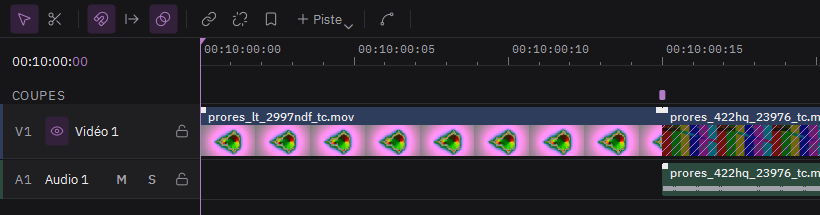
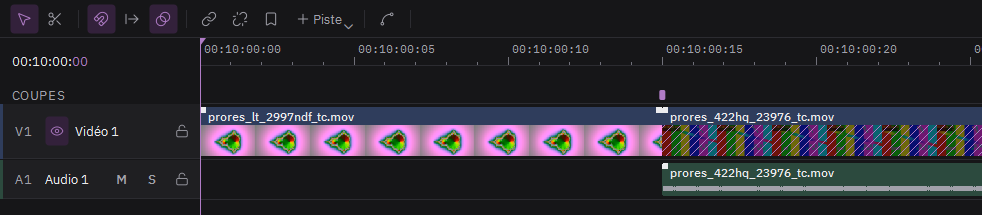
Étape 14, lot 3 : aide, guide et version 1.2.0

diff --git a/remanence/ressources/guide/index.html b/remanence/ressources/guide/index.html
@@ -48,7 +48,7 @@ td { padding: 6px 16px 6px 0; border-bottom: 1px solid var(--ligne); vertical-al
 </style>
 </head>
 <body>
-<nav><h1>Remanence</h1><p>Guide · version 1.1.2</p><ol>
+<nav><h1>Remanence</h1><p>Guide · version 1.2.0</p><ol>
 <li><a href="#00-bienvenue">Bienvenue</a></li>
 <li><a href="#01-ecran">L&#x27;écran</a></li>
 <li><a href="#aide-01-monter">Monter des clips</a></li>
@@ -207,7 +207,19 @@ td { padding: 6px 16px 6px 0; border-bottom: 1px solid var(--ligne); vertical-al
 <li>Attendez que « Calcul… » disparaisse du clip, puis lisez le passage.</li>
 </ol>
 <p>La zone hachurée au début du second clip montre la durée de la bavure. Tirez son bord droit pour l'allonger. Dans l'inspecteur, la section Transition datamosh règle aussi la taille des blocs et le <strong>Fondu</strong>, en images : sur la fin de la transition, la bavure s'efface peu à peu au lieu de laisser place à l'image nette d'un coup (0 : retour au net d'un coup). Sur la timeline, les hachures s'éclaircissent sur cette partie.</p>
-<p>Les autres rectangles de la bande Coupes marquent les changements de plan à l'intérieur d'une vidéo. Un clic fait baver le plan d'avant dans le suivant, au même endroit.</p></section>
+<p>Les autres rectangles de la bande Coupes marquent les changements de plan à l'intérieur d'une vidéo. Un clic fait baver le plan d'avant dans le suivant, au même endroit.</p>
+<h3>Façonner le glitch</h3>
+<p>Toujours dans la section Transition datamosh :</p>
+<ul>
+<li><strong>Préréglage</strong> : Douce, Brutale (un coup violent au raccord, sans fondu), Explosion (les pixels gonflent puis éclatent), Cassée (blocs cassés et éclats). Changer un réglage la rend « Personnalisée ».</li>
+<li><strong>Intensité</strong> : la force de la bavure. Au-delà de 100 %, l'image est arrachée plus fort ; en dessous de 0, elle part à rebours.</li>
+<li><strong>Évolution</strong> : Constante, Coup d'abord (tout au raccord, puis de plus en plus calme) ou Montée.</li>
+<li><strong>Direction</strong> : la bavure file sur les deux axes, ou seulement à l'horizontale ou à la verticale.</li>
+<li><strong>Bloom</strong> : le mouvement du raccord se répète sur quelques images, l'image gonfle et traîne.</li>
+<li><strong>Corruption</strong> : une part des données est abîmée pendant la bavure. Le tirage reste le même d'un export à l'autre.</li>
+</ul>
+<p>Intensité, Évolution et Direction demandent FFglitch. Sur la timeline, une transition violente a des hachures croisées, et le nom de son préréglage s'y écrit.</p>
+<p>La bavure part de l'image du premier plan telle qu'on la voit : ses effets passent dans le second plan.</p></section>
 <section><h2 id="aide-06-codec">Effets codec et scripts FFglitch</h2>
 <figure><img alt="Script FFglitch dans l'inspecteur" src="../aide/codec.png"></figure>
 <p>Les effets marqués « moteur codec » abîment la vidéo compressée elle-même : bavure, fonte des pixels, vecteurs de mouvement déformés. Ils se calculent en arrière-plan ; le badge « Calcul… » reste sur le clip le temps du calcul.</p>

diff --git a/scripts/captures_aide.py b/scripts/captures_aide.py
@@ -18,7 +18,7 @@ sys.path.insert(0, str(RACINE))
 os.environ["REMANENCE_DONNEES"] = tempfile.mkdtemp(prefix="remanence_aide_")
 os.environ["REMANENCE_CACHE"] = tempfile.mkdtemp(prefix="remanence_aide_")
 
-from PySide6.QtCore import QSettings  # noqa: E402
+from PySide6.QtCore import QPoint, QSettings  # noqa: E402
 
 QSettings.setDefaultFormat(QSettings.IniFormat)
 QSettings.setPath(QSettings.IniFormat, QSettings.UserScope, tempfile.mkdtemp())
@@ -78,7 +78,10 @@ def main():
     # Transition datamosh au raccord.
     w.basculer_cle("raccord", second.id, 0)
     attendre(app, delai=1.0)
-    photo(w._docks["timeline"], "transition.png", 820, 215)
+    # Jusqu'à un peu après le raccord : la zone hachurée et son fondu.
+    vue = w.timeline.vue
+    raccord = vue.mapTo(w._docks["timeline"], QPoint(round(vue.x_de(second.debut)), 0)).x()
+    photo(w._docks["timeline"], "transition.png", max(820, raccord + 320), 215)
 
     # Effet animé : deux images clés, l'effet n'agit qu'entre elles.
     w.timeline.vue._choisir({premier.id})

diff --git a/remanence/__init__.py b/remanence/__init__.py
@@ -1,6 +1,6 @@
 """Remanence : montage vidéo et datamosh."""
 
-__version__ = "1.1.2"
+__version__ = "1.2.0"
 EDITEUR = "Flux Croisés"
 ANNEE = 2026
 LICENCE = "GPL 3"  # texte dans LICENSE, à la racine du projet

diff --git a/CLAUDE.md b/CLAUDE.md
@@ -43,7 +43,7 @@ Logiciel Windows de montage vidéo orienté datamosh et glitch art, dans l'espri
 - Étape 12 (effets audio glitch) : plan en quatre lots accepté par Lewis le 5 novembre 2026 avec les choix par défaut (1 moteur : effets sur les clips et pistes audio, lecture et export, images clés, courbes, modulateurs, calcul qui ne dépend que de la position (même son par blocs et d'un export à l'autre) ; 2 six effets : Bégaiement, Bitcrusher, Arrêt de bande, Inversion par fragments, Gel, Databending audio ; 3 « le son bave avec l'image » (case de la transition datamosh : le son se gèle et se répète pendant la transition et aux images clés supprimées), famille Son dans la bibliothèque avec préréglages ; 4 validation : effet à zéro = son recopié au bit près, deux exports identiques, lecture fluide avec trois effets ; effets audio sur le son seulement, effets vidéo sur l'image seulement ; ni écho ni réverbération). Lot 1 fait le 5 novembre 2026, 239 tests au vert : `DescriptionEffet.moteur = "audio"` et `son(lire, valeurs, graine, fréquence)` qui rend un lecteur ; `rendu/son.py` : lecteur = `lire(début, n)` -> (n, 2) float32 en positions du porteur (clip, ou séquence pour un effet de piste), `borne` (muet hors du clip), `chaine` (effets actifs de chaque image, `composition.actifs`, le bloc coupé aux limites des images : l'image de l'échantillon p est floor(p / par_image), chacune avec ses réglages, d'où un résultat indépendant de la taille des blocs), opacité = mélange avec le son reçu. `Compositeur.audio` : `_lecteur_clip` (source bornée, effets audio du clip, puis niveau, fondus, enveloppe) ; une piste qui a des effets audio les applique au mélange de ses clips (`bus`). Export : pas de recopie du son si le clip ou sa piste a des effets. `FAMILLES_SON` = ["Son"] ; `remplir_menu_effets(..., son=)` : effets audio pour les clips et pistes audio, vidéo sinon (préréglages personnels filtrés de même) ; `Fenetre.ajouter_effet` refuse un effet sur le mauvais genre (« Effet audio sur le son, effet vidéo sur l'image ») ; inspecteur : effets des clips et pistes audio, « Mélange » au lieu d'Opacité, ni fusion ni masques ; menu des en-têtes de pistes audio. Premier effet : Bitcrusher (`effets/bitcrusher.py` : bits 1 à 16, réduction 1 à 64 ×, échantillon tenu aligné sur les positions absolues ; famille Son, sans préréglage jusqu'au lot 3). Tests génériques des effets vidéo : sans les effets audio. `tests/test_son.py`. Lot 2 fait le 5 novembre 2026, 246 tests au vert : outils de `rendu/son.py` (`hasard(graine, clés…)` par `numpy.random.default_rng`, `lire_positions` : positions entières ou non, interpolation linéaire, lues en une fois ; `echantillons(ms)`) ; effets (fenêtres comptées depuis le début du porteur, tirées par fenêtre : même son quel que soit le découpage) : Bégaiement (`begaiement.py` : fenêtres de fragment × répétitions, le premier fragment rejoué ; fragment, répétitions, probabilité), Inversion par fragments (`inversion_fragments.py`), Gel (`gel.py` : à la fin de chaque période tirée, le grain qui précède rejoué en boucle pendant la durée, fondu d'un huitième de grain sur ses bords), Arrêt de bande (`arret_bande.py` : vitesse (1 − u)^courbe, position = intégrale, la hauteur descend, extinction au dernier vingtième ; repart net à la période suivante), Databending audio (`databending_audio.py` : tranches d'une seconde depuis le début du porteur, encodées en MP2 par PyAV (s16, trames de 1152, débits permis de 32 à 192 kb/s), octets des paquets abîmés hors des 4 octets d'en-tête (graine, tranche), décodés (trame illisible : silence), retard du codec de 481 échantillons retiré ; cache LRU de 64 tranches, clé = SHA-1 du son reçu + réglages : la lecture redemande souvent la même tranche). Les 5 effets : 3 s calculées en 11 à 54 ms. Écoute : `build/demo_son` (un WAV par effet sur un motif rythmé, non suivi par git). Lot 3 fait le 5 novembre 2026, 248 tests au vert : « Le son bave » (`Clip.son_bave`, clé facultative, sur le clip vidéo ; case dans la section Transition datamosh, ou dans une section « Datamosh » s'il n'a que des images clés supprimées, pour un clip lié à du son) : `Compositeur._plages_bave` (les `prerendu.plages_modifiees` des clips vidéo liés aux clips de la piste, en échantillons de la séquence) puis `son.bave` sur le mélange de la piste, avant ses effets : pendant chaque plage (deux secondes au plus), le grain de 60 ms qui la précède (le plan d'avant) tourne en boucle (fondu d'un huitième de grain) et s'efface pendant que le son de la plage monte ; export : pas de recopie du son lié à un clip qui bave. Trois préréglages par effet audio (Disque rayé, Sampler nerveux, Hoquet ; Console 8 bits, Téléphone cassé, Poussière ; Cassette freinée, Platine débranchée, Ralenti nerveux ; Envers aléatoire, Bribes à rebours, Message caché ; Note tenue, Glace fine, Bourdon ; Radio abîmée, Fichier corrompu, Crépitements). Bibliothèque : filtre « Son » (`FAMILLES_SON`), vignette d'un préréglage audio = forme d'onde de `son.son_demo()` passé par ses effets, en `ink` sur `clip-audio` comme un clip audio, tête de lecture `playhead` qui la parcourt au survol (`est_audio`, `_onde`, `_calculer_onde`) ; ni clip d'effet ni effet de séquence pour un préréglage audio. `Fenetre.appliquer_prereglage` et `_prereglage_depose` : un préréglage audio va aux clips audio choisis, et au son lié (`_son_lie`) d'un clip vidéo choisi ou visé ; lâché dans le vide : refusé. Guide : catalogue avec la famille Son (moteur « Son »), vignettes refaites. Lot 4 fait le 5 novembre 2026, 256 tests au vert, Remanence.exe et installateur reconstruits (diagnostic : 35 effets, 11 fiches) : `DescriptionEffet.neutre(valeurs)` (Bitcrusher : 16 bits et réduction 1 ; Bégaiement : probabilité 0 ou une répétition ; Inversion, Gel, Arrêt de bande : probabilité 0 ; le Databending repasse toujours par le codec, neutre seulement à mélange nul), sauté dans `son.chaine` ; `son.intact(effet, seq)` (coupé, mélange nul ou neutre, sans image clé ni modulateur) : l'export recopie le son d'origine si tous les effets audio du clip et de sa piste sont intacts (test : paquets audio identiques à la source, pour les six effets). Le rapport d'export écrit « recopié sans réencodage » (le test du lot 1 comparait à « copie » et ne vérifiait rien : corrigé). Les six effets empilés exportés deux fois : même son. Lecture : trois effets (Bégaiement, Gel, Databending) par blocs de 1024 échantillons coûtaient 124 % du temps réel : le Databending, par tranches d'une seconde, refaisait calculer une seconde des effets d'avant à chaque bloc ; tranches de deux trames MP2 (48 ms) avec une trame d'avance (encodée, non abîmée, retirée : le codec enchaîne sans claquer, écart aux jointures 0,01), cache de 512 tranches : 23 %. Tuiles des préréglages audio : « Effet · son » (`Prereglage.description`). Fiche `11-son.md` « Casser le son » (capture `son.png`, filtre Son de la bibliothèque), notes de version, guide (17 chapitres). Validée par Lewis le 5 novembre 2026 : les étapes 7 à 12 de la suite sont faites.
 - Étape 13 (retours des testeurs de Lewis, 15 novembre 2026 : un monteur est reparti vers Live Mosher, interface de FFglitch de pawelzwronek, faute d'y retrouver ses scripts ; bugs de timeline et de moniteur ; molette ; ergonomie) : plan en cinq lots accepté par Lewis le 15 novembre 2026 (1 scripts de Live Mosher : exemples téléchargés pour les essais seulement, chacun des ~80 scripts vérifié une fois importé, import en un clic, noms et rangement d'origine ; licence des scripts de Daz Disley (dd_GlitchAssist) et de Live Mosher non déclarée : pas livrés sans l'accord de l'auteur ; 2 aperçu en direct par fflive (bouton « Direct », fenêtre en boucle sur le programme, relancée quand un réglage change) ; 3 équivalents réécrits et livrés (Gravity, Slam zoom, Mirror, Swap, RandomDamage…) ; 4 bugs : molette qui change les réglages, timeline qui ne se réduit plus ou disparaît, image dans l'image du moniteur ; 5 inspecteur en onglets Clip et Effets, piste FX des clips d'effet, moniteur seul en plein écran sur l'écran 2). Lot 1 fait le 15 novembre 2026, 261 tests au vert : banc d'essai sur les 109 fichiers du dossier Examples de Live Mosher (dépôt pawelzwronek/LiveMosher, sans licence : téléchargé dans le dossier temporaire de Claude pour les essais, jamais dans le projet) ; avant correction, 79 scripts agissaient une fois importés (dont les 74 de Daz Disley), 12 échouaient sur un module voisin, `mv_average_0.10.js` choisissait son propre fichier de sortie, et un script zmq bloquait ffedit sans fin. `scripts.importer` rend un `BilanImport` (importés, dont en direct, écartés avec leur raison) : dossiers d'origine gardés sous `<données>/scripts_ffglitch/<nom du dossier importé>/…`, modules voisins recopiés dans le script (`regrouper` : `import {…} from "./x"` remplacé par le module sans ses `export`, `import * as n` rangé dans un objet `n`), écartés : sans `glitch_frame` (« module d'aide », ou « autre usage » pour les crochets d'autres outils de FFglitch : `filter` de fflive, `pict_type_func`, `mb_type_func` de ffgac), features hors MPEG-4 (`FEATURES_MPEG4` = info, mv, mv_delta, mb, gmc, relevées par `ffedit -i` : « pour les images »), module voisin introuvable. `direct_seulement` : import d'un module de fflive (rtmidi, zmq) ou événements SDL (clavier, manette) ; un tel script est sans action sur la timeline (`prerendu.en_direct`, exclu de `effets_codec` et de `composition.actifs`, `script_ffglitch.script` lève « Script à lire en direct »), avertissement dans l'inspecteur ; il servira au direct (lot 2). `adapter` : le fichier de sortie reste celui de Remanence même si le `setup` du script en choisit un. Bibliothèque : `scripts_de_la_bibliotheque()` (`Script` : nom, texte, fourni, groupe = dossier d'origine, direct ; deux scripts de même nom : le second suivi de son dossier entre parenthèses) ; tuiles « Script · instant damage », « · direct » (`Prereglage.groupe`, `direct`). Fichier > Importer les scripts de Live Mosher… : `scripts.trouver_live_mosher()` cherche un dossier dont le nom contient « LiveMosher » (deux niveaux sous Téléchargements, Bureau, Documents, le dossier personnel et les dossiers des programmes) et son « Examples » ; sinon le dossier est demandé. Après correction, sur les vrais fichiers : 91 importés, 82 agissent sur la timeline (les 74 de Daz Disley compris), 9 en direct, 16 écartés. `tests/test_scripts_import.py` (faux dossier qui reproduit chaque cas). Le message « FFglitch absent : effet sans action » a pris son espace insécable (test mis à jour). Lot 2 fait le 15 novembre 2026, 262 tests au vert : aperçu en direct (`moteurs/codec/direct.py`) par fflive de FFglitch 0.10.2 (`-s` script, `-loop 0`, `-noborder -alwaysontop`, `-left -top -x -y`, `-an`, titre « Remanence · Direct ») : `accepte` (effets dont `DescriptionEffet.script` existe : Script FFglitch, Vecteurs, Écho et Zoom de mouvement, saccades ; pas le transfert), `script` (Script FFglitch par `scripts.adapter` sans le refus des scripts directs ; sinon le script généré avec les valeurs de chaque image), `flux` (le clip en MPEG-4 par ffgac, images clés aux coupes, mis en cache `direct_<empreinte>.avi` dans le dossier des pré-rendus : source, entrée, durée, vitesse, cadence, blocs), `Direct` (un processus à la fois, `lancer`, `actif`, `erreur`, `arreter`). Interface : bouton « Direct » (cochable) des effets à script d'un clip dans l'inspecteur, si FFglitch est là (`Inspecteur.direct_demande`, `effet_direct`) ; `Fenetre.basculer_direct` prépare fichier et script en tâche de fond sur une copie du projet, puis pose la fenêtre sur l'image du programme (`_rect_direct` : image de la séquence ajustée dans `visionneuse.zone`, en pixels physiques) ; relancé 350 ms après chaque action validée (`valider`) ou changement d'espace (`_relance_direct`) ; `_surveiller_direct` (500 ms) relâche le bouton quand fflive s'arrête (Échap, erreur du script notée au journal) ; arrêté si l'effet ou le clip disparaît, et à la fermeture. L'effet est montré seul sur la source du clip. Essai réel : Vecteurs et dd_gravity, fenêtre à la position demandée ; écrans de Lewis à 100 %. Capture `UI/captures/direct_lot2.png` (dd_RandomDamage(wave) sur la vidéo UHD). Lot 3 fait le 15 novembre 2026, 270 tests au vert : quatre effets FFglitch réécrits (idées des scripts de Daz Disley, aucun code repris), famille Datamosh, avec « Fréquence » (sous 100 % : images tirées au hasard par `hasard()`, comme RandomDamage) : Gravité (`gravite.py` : poussée constante, direction en degrés, 0 = vers le bas, force en px), Échange des axes (`echange_axes.py`), Sens unique (`sens_unique.py` : ne garde que le mouvement vers les directions cochées), Tourbillon (`tourbillon.py` : champ tournant autour d'un centre, même échelle que le Zoom de mouvement). Un vecteur dit où chercher le bloc dans l'image d'avant : le sens à l'écran est l'opposé de son signe. `DescriptionEffet.equivalents` (préréglage -> nom du script d'autres logiciels), `Prereglage.equivalent` : cherché par la recherche de la bibliothèque, écrit dans l'info-bulle de la tuile (« Gravité · Datamosh · dd_gravity »). Préréglages ajoutés : Vecteurs (Miroir horizontal, Miroir vertical, Double vitesse), Zoom de mouvement (Coup de zoom) ; équivalents posés aussi sur Vecteurs, Zoom, Écho et les saccades. Guide refait (39 effets, vignettes). Test : `test_equivalents_live_mosher`. Lot 4 fait le 15 novembre 2026, 273 tests au vert : molette (`ui/molette.py`, filtre de l'application installé par la fenêtre) : champs numériques, curseurs et listes déroulantes (pas les barres de défilement) passent en StrongFocus à leur mise en forme (Qt donnait le clavier au widget survolé avant tout filtre) et ne prennent la molette qu'avec le clavier ; sinon elle remonte aux parents jusqu'à celui qui l'accepte (Qt ne propage pas un événement renvoyé) ; timeline hors de l'écran : au retour de l'espace Export, `restoreState` posait la disposition mémorisée alors que les panneaux d'Export étaient encore visibles, la fenêtre agrandie passait à 1 096 px sur un écran de 1 032 et le restait (bas de la timeline et barre des espaces hors de vue, timeline impossible à régler) ; `_appliquer_espace` cache d'abord les panneaux étrangers à l'espace, `_verifier_hauteur` remet aussi à la taille de l'écran une fenêtre agrandie plus haute que lui, et une timeline cachée par une disposition mémorisée revient (elle n'a pas de barre de titre) ; image du moniteur : Qt refait le contexte OpenGL d'une `ZoneImage` qui change de fenêtre (panneau détaché, second écran) et elle gardait les textures de l'ancien (moniteur noir, ou ancienne image) : `initializeGL` repart de textures neuves et renvoie image et LUT. `lire_apercu` en double dans `gpu.py` retiré. Les tests d'interface tournent sans écran (`QT_QPA_PLATFORM=offscreen`, pas d'OpenGL, écran de 800 px de haut) ; le moniteur détaché vérifié à la main sur l'écran réel. Tests : `test_molette_fait_defiler_sans_changer_les_reglages`, `test_timeline_reste_a_l_ecran`, `test_moniteur_change_de_fenetre`. Lot 5 fait le 15 novembre 2026, 277 tests au vert : inspecteur d'un clip en onglets Clip et Effets (`Inspecteur.onglet`, `choisir_onglet`, `_onglets` : deux boutons cochables sous le titre, « Effets · n » ; chaque onglet ne construit que son contenu, `_effets_du_clip` ; l'onglet est gardé d'un clip à l'autre ; `Fenetre.ajouter_effet` (clip), `appliquer_prereglage`, `ajouter_clip_effet` et le dépôt d'un clip d'effet passent à Effets, l'espace Effets aussi, l'espace Montage revient à Clip) ; piste FX (`Piste.fx`, clé enregistrée, absente des anciens projets : False) : `edition.piste_fx` (celle demandée si c'en est une, sinon la plus haute qui a la place, sinon une nouvelle « FX », « FX 2 »… insérée tout en haut), `ajouter_clip_effet` y pose toujours le clip d'effet (même lâché dans le vide d'une piste ordinaire) ; `ajouter_titre` va sur la plus haute piste qui n'est pas FX ; `ajouter_piste` sans voisine pose une piste vidéo sous les pistes FX (nommée sans les compter) ; `_piste_type` et `placer_au_dessus` ignorent les pistes FX ; `ajouter_media` refuse une piste FX (« Piste FX : clips d'effet seulement. ») ; `deplacer` laisse sur sa piste un clip qui n'est pas un clip d'effet glissé vers une piste FX ; glisser au-dessus des pistes : la nouvelle piste est sous les FX (`delta_piste` calculé sur elle) ; `nom_court_piste` : FX, FX2… (V1, V2 sans compter les FX), en-tête « badge-accent ». Double écran « Moniteur sur le second écran » (`_mode_double = "moniteur"`, retrouvé au lancement) : `_ouvrir_programme_externe(persistant=True)` (l'image du programme en plein écran sur l'autre écran, le programme reste aussi dans la fenêtre ; Échap ne la ferme pas ; le clavier rendu à la fenêtre principale ; fermée par Alt+F4 : retour à un seul écran ; Ctrl+F sans effet dans ce mode). Cette fenêtre a maintenant la fenêtre principale pour parent et `deleteLater` à la fermeture : sans parent, le ramasse-miettes de Python la détruisait pendant que Qt s'en servait (plantage 0xc0000374 de la suite de tests). Onglets fantômes : après Cut (source et programme en onglets), Qt laissait la barre « Programme | Source » à l'écran par-dessus le bas du moniteur des autres espaces ; `_ranger_onglets` (après chaque changement d'espace) cache une barre dont les panneaux ne sont plus en onglets l'un avec l'autre (`tabifiedDockWidgets`). Lignes de code dont la continuation par barre oblique avait été écrasée en espaces (fenetre, composition, export, echanges, panneau_courbes, effets, tests) remises en forme. Pièges de cette session : l'outil Bash de Claude abîme les barres obliques inverses dans les textes passés par heredoc (`\\` suivi d'un retour à la ligne, `\\1` devenu un caractère de contrôle) : écrire ces fichiers avec l'outil d'édition ; les sondes hors tests doivent demander OpenGL 3.3 core comme `__main__` (sinon les moniteurs restent noirs) ; ne jamais appeler `ZoneImage.initializeGL` sans contexte courant (mémoire abîmée). Version 1.1.0 et `NOTES_DE_VERSION.md`. Étape 13 validée par Lewis le 15 novembre 2026 ; publiée le même jour avec son accord : commits poussés sur fluxcroises/remanence, version v1.1.0 avec `Remanence-1.1.0-installation.exe`, catalogue de Creative Orbit relancé à la main (workflow « Mettre à jour le catalogue », sinon toutes les 6 heures).
 - Retour progressif au net du datamosh (demande de Lewis, 21 novembre 2026, après la 1.1.0 ; publié en 1.1.1 le même jour avec son accord, catalogue de Creative Orbit relancé à la main) : `Transition.fondu` (images, 0 par défaut : les projets d'avant reviennent au net d'un coup ; une nouvelle transition reçoit `min(edition.FONDU_DATAMOSH = 8, durée // 2)`). `prerendu._retour_progressif` : sur les `fondu` dernières images de la transition, l'image décodée qui bave est mêlée en yuv420p à l'image nette du clip (convertie comme pour l'encodeur), poids (k + 1) / (n + 1) comme un fondu enchaîné ; la durée et l'image clé de fin ne bougent pas ; le fondu n'entre dans l'empreinte de la source modifiée que s'il est non nul (caches d'avant valables). Inspecteur : ligne « Fondu » (0 à la durée) entre Durée et Blocs. Timeline : les hachures s'éclaircissent par paliers sur la partie du fondu. Fiche `05-datamosh.md`. Test : `test_retour_progressif_du_datamosh` (deux moteurs : même bavure avant, de plus en plus net, source intacte après). Bavure qui garde les effets du plan précédent (retour de Lewis sur la 1.1.1, 21 novembre 2026, sur son projet du Bureau `projet.remanence` : premier clip avec Inversion par saccades et JPEG extrême, second avec transition datamosh ; « la dernière image du premier clip n'a pas d'effet ») : la source modifiée prenait les 4 dernières images du clip précédent dans son média, sans ses effets ; la première image du second clip, qui montre encore le premier, apparaissait donc propre et la bavure partait d'elle. Si le clip précédent a des effets actifs ou une transformation (`_habille`), ces images viennent de `_rendu_seul` (copie du projet où il reste seul sur sa piste, sans effets de piste ni de séquence, composée par un `Compositeur` synchrone, posée sur du noir, convertie par `depuis_rvba` en `FORMAT_FLUX` avec la couleur de son média) ; son habillage (effets, transformation, modulateurs, niveau, fondus, enveloppe, fusion, début) entre dans l'empreinte de la source modifiée, seulement dans ce cas. Ce rendu tourne dans un fil à part : un second contexte de carte graphique ouvert dans le fil appelant (export, pré-rendu) lui prenait la place, « cannot create texture ». Test : `test_la_bavure_garde_les_effets_du_plan_precedent` (deux moteurs, export qui calcule la transition en route). Publié en 1.1.2 le 21 novembre 2026 avec l'accord de Lewis (GitHub et catalogue de Creative Orbit).
-- Étape 14 (façonnage du glitch de la transition datamosh, demande de Lewis du 21 novembre 2026 : « la rendre plus brutale ou gérer le glitch créé ») : plan en trois lots accepté par Lewis le 21 novembre 2026 (1 calcul : intensité, évolution, direction, bloom, corruption ; 2 inspecteur, préréglages Douce, Brutale, Explosion, Cassée, hachures selon la violence ; 3 aide, guide, version 1.2.0 ; réglages neutres = transition d'avant au pixel près ; deux exports identiques). Lot 1 fait le 21 novembre 2026, 292 tests au vert : `Transition` gagne `intensite` (%, 100 neutre, négatif à rebours), `evolution` (« constante », « coup » : 1 + (k − 1)(1 − u)², « montee » : 1 + (k − 1)u²), `direction` (« deux », « horizontal », « vertical » : l'autre axe à 0), `bloom` (images), `corruption` (%), `EVOLUTIONS`, `DIRECTIONS`, `faconnage()` (réglages non neutres seulement ; l'évolution seule ne compte pas), clés facultatives des projets. `moteurs/codec/transition.py` : `gains`, `script` (script généré par `scripts.entete`, gains `gx`, `gy` à chaque image du flux de la source modifiée, 1 hors transition, vecteurs multipliés et arrondis, `overflow = "truncate"`), `faconner` (après la suppression de l'image clé du raccord : `bavure.bloom` depuis l'image qui suit le raccord, au plus durée − 1 répétitions ; `bavure.abimer` sur les images de la transition, graine `zlib.crc32(clip.id)`). `prerendu.encoder(..., script=)` applique un script tout fait par ffedit ; `_calculer_source` le passe si `agit_sur_le_mouvement` ; `faconnage()` entre dans l'empreinte s'il n'est pas vide. Intensité, évolution et direction : FFglitch seulement (sans lui, sans action) ; bloom et corruption : les deux moteurs. Planche sur le projet de Lewis : chaque réglage se voit (sa prairie bouge peu : intensité jusqu'à 800 % prévue dans l'inspecteur). Tests : `test_faconnage_de_la_transition` (5 réglages × 2 moteurs), `test_gains_de_la_transition`. Défaut trouvé en route, antérieur : deux calculs d'une même transition ne donnaient pas toujours les mêmes images (paquets identiques, décodage différent) : `av.Packet(bytes)` de PyAV n'a pas les 64 octets à zéro que FFmpeg exige après les données ; sur un flux abîmé, le décodeur lisait au-delà et tombait sur ce qui traînait en mémoire. `bavure.paquet` (paquet alloué par `av.Packet(taille)`, données recopiées) sert au décodage de `bavure.decoder`, de l'analyse de compression et du Databending audio ; décodeur MPEG-4 sur un seul fil. Lot 2 fait le 21 novembre 2026, 294 tests au vert : `transition.PREREGLAGES` (Douce : fondu 12 ; Brutale : 400 %, coup d'abord, sans fondu ; Explosion : 250 %, coup, bloom 8, fondu 6 ; Cassée : 150 %, bloom 3, corruption 50, fondu 4 ; la durée est gardée), `appliquer_prereglage` (fondu et bloom ramenés à la durée), `prereglage_de` (le préréglage suivi exactement, sinon ""), `violence` (0 à 1 : intensité, direction, bloom, corruption). Inspecteur, section Transition datamosh : Préréglage (liste, « Personnalisée » hors préréglage), Durée, Fondu, Intensité (−400 à 800 %), Évolution, Direction, Bloom (0 à durée − 1), Corruption, Blocs ; « FFglitch absent : intensité et direction sans action » si besoin ; `Inspecteur._ligne_liste` (libellé et liste, partagé avec la ligne Transition du fondu). `Fenetre._reglage_clip` : « transition_prereglage », réglages texte tels quels, nombres arrondis dans leur type (entier ou réel), fondu et bloom ramenés à la durée. Timeline : hachures croisées si `violence` ≥ 0,5, nom du préréglage dans la zone (56 px au moins). Captures : `UI/captures/faconnage_lot2_inspecteur.png`, `faconnage_lot2_timeline.png`. Tests : `test_prereglages_de_la_transition`, `test_faconnage_de_la_transition_dans_l_inspecteur`. `test_licences.test_version_et_notes` attendait la version 1.0.0 exacte et échouait depuis la 1.1.0 (suite non relancée après le changement de version) : il vérifie maintenant trois nombres. 279 tests au vert.
+- Étape 14 (façonnage du glitch de la transition datamosh, demande de Lewis du 21 novembre 2026 : « la rendre plus brutale ou gérer le glitch créé ») : plan en trois lots accepté par Lewis le 21 novembre 2026 (1 calcul : intensité, évolution, direction, bloom, corruption ; 2 inspecteur, préréglages Douce, Brutale, Explosion, Cassée, hachures selon la violence ; 3 aide, guide, version 1.2.0 ; réglages neutres = transition d'avant au pixel près ; deux exports identiques). Lot 1 fait le 21 novembre 2026, 292 tests au vert : `Transition` gagne `intensite` (%, 100 neutre, négatif à rebours), `evolution` (« constante », « coup » : 1 + (k − 1)(1 − u)², « montee » : 1 + (k − 1)u²), `direction` (« deux », « horizontal », « vertical » : l'autre axe à 0), `bloom` (images), `corruption` (%), `EVOLUTIONS`, `DIRECTIONS`, `faconnage()` (réglages non neutres seulement ; l'évolution seule ne compte pas), clés facultatives des projets. `moteurs/codec/transition.py` : `gains`, `script` (script généré par `scripts.entete`, gains `gx`, `gy` à chaque image du flux de la source modifiée, 1 hors transition, vecteurs multipliés et arrondis, `overflow = "truncate"`), `faconner` (après la suppression de l'image clé du raccord : `bavure.bloom` depuis l'image qui suit le raccord, au plus durée − 1 répétitions ; `bavure.abimer` sur les images de la transition, graine `zlib.crc32(clip.id)`). `prerendu.encoder(..., script=)` applique un script tout fait par ffedit ; `_calculer_source` le passe si `agit_sur_le_mouvement` ; `faconnage()` entre dans l'empreinte s'il n'est pas vide. Intensité, évolution et direction : FFglitch seulement (sans lui, sans action) ; bloom et corruption : les deux moteurs. Planche sur le projet de Lewis : chaque réglage se voit (sa prairie bouge peu : intensité jusqu'à 800 % prévue dans l'inspecteur). Tests : `test_faconnage_de_la_transition` (5 réglages × 2 moteurs), `test_gains_de_la_transition`. Défaut trouvé en route, antérieur : deux calculs d'une même transition ne donnaient pas toujours les mêmes images (paquets identiques, décodage différent) : `av.Packet(bytes)` de PyAV n'a pas les 64 octets à zéro que FFmpeg exige après les données ; sur un flux abîmé, le décodeur lisait au-delà et tombait sur ce qui traînait en mémoire. `bavure.paquet` (paquet alloué par `av.Packet(taille)`, données recopiées) sert au décodage de `bavure.decoder`, de l'analyse de compression et du Databending audio ; décodeur MPEG-4 sur un seul fil. Lot 2 fait le 21 novembre 2026, 294 tests au vert : `transition.PREREGLAGES` (Douce : fondu 12 ; Brutale : 400 %, coup d'abord, sans fondu ; Explosion : 250 %, coup, bloom 8, fondu 6 ; Cassée : 150 %, bloom 3, corruption 50, fondu 4 ; la durée est gardée), `appliquer_prereglage` (fondu et bloom ramenés à la durée), `prereglage_de` (le préréglage suivi exactement, sinon ""), `violence` (0 à 1 : intensité, direction, bloom, corruption). Inspecteur, section Transition datamosh : Préréglage (liste, « Personnalisée » hors préréglage), Durée, Fondu, Intensité (−400 à 800 %), Évolution, Direction, Bloom (0 à durée − 1), Corruption, Blocs ; « FFglitch absent : intensité et direction sans action » si besoin ; `Inspecteur._ligne_liste` (libellé et liste, partagé avec la ligne Transition du fondu). `Fenetre._reglage_clip` : « transition_prereglage », réglages texte tels quels, nombres arrondis dans leur type (entier ou réel), fondu et bloom ramenés à la durée. Timeline : hachures croisées si `violence` ≥ 0,5, nom du préréglage dans la zone (56 px au moins). Captures : `UI/captures/faconnage_lot2_inspecteur.png`, `faconnage_lot2_timeline.png`. Tests : `test_prereglages_de_la_transition`, `test_faconnage_de_la_transition_dans_l_inspecteur`. Lot 3 fait le 21 novembre 2026, 294 tests au vert : fiche `05-datamosh.md` (section « Façonner le glitch » en fin de fiche), capture `transition.png` prolongée de 320 px après le raccord (`captures_aide.py`), guide refait, version 1.2.0 et `NOTES_DE_VERSION.md`, Remanence.exe et `Remanence-1.2.0-installation.exe` construits (diagnostic entièrement ok). Publication après validation de Lewis. `test_licences.test_version_et_notes` attendait la version 1.0.0 exacte et échouait depuis la 1.1.0 (suite non relancée après le changement de version) : il vérifie maintenant trois nombres. 279 tests au vert.
 
 ## Commandes
 

diff --git a/remanence/ressources/aide/05-datamosh.md b/remanence/ressources/aide/05-datamosh.md
@@ -11,3 +11,18 @@ C'est la **transition datamosh** : l'image du premier plan reste et se déforme
 La zone hachurée au début du second clip montre la durée de la bavure. Tirez son bord droit pour l'allonger. Dans l'inspecteur, la section Transition datamosh règle aussi la taille des blocs et le **Fondu**, en images : sur la fin de la transition, la bavure s'efface peu à peu au lieu de laisser place à l'image nette d'un coup (0 : retour au net d'un coup). Sur la timeline, les hachures s'éclaircissent sur cette partie.
 
 Les autres rectangles de la bande Coupes marquent les changements de plan à l'intérieur d'une vidéo. Un clic fait baver le plan d'avant dans le suivant, au même endroit.
+
+## Façonner le glitch
+
+Toujours dans la section Transition datamosh :
+
+- **Préréglage** : Douce, Brutale (un coup violent au raccord, sans fondu), Explosion (les pixels gonflent puis éclatent), Cassée (blocs cassés et éclats). Changer un réglage la rend « Personnalisée ».
+- **Intensité** : la force de la bavure. Au-delà de 100 %, l'image est arrachée plus fort ; en dessous de 0, elle part à rebours.
+- **Évolution** : Constante, Coup d'abord (tout au raccord, puis de plus en plus calme) ou Montée.
+- **Direction** : la bavure file sur les deux axes, ou seulement à l'horizontale ou à la verticale.
+- **Bloom** : le mouvement du raccord se répète sur quelques images, l'image gonfle et traîne.
+- **Corruption** : une part des données est abîmée pendant la bavure. Le tirage reste le même d'un export à l'autre.
+
+Intensité, Évolution et Direction demandent FFglitch. Sur la timeline, une transition violente a des hachures croisées, et le nom de son préréglage s'y écrit.
+
+La bavure part de l'image du premier plan telle qu'on la voit : ses effets passent dans le second plan.

diff --git a/NOTES_DE_VERSION.md b/NOTES_DE_VERSION.md
@@ -1,5 +1,15 @@
 # Notes de version
 
+## Remanence 1.2.0
+
+Novembre 2026. Façonner le glitch de la transition datamosh.
+
+- Préréglages de transition : Douce, Brutale, Explosion, Cassée.
+- Intensité (de −400 à 800 %), Évolution (constante, coup d'abord, montée) et Direction (les deux axes, horizontale, verticale) de la bavure, avec FFglitch.
+- Bloom (le mouvement du raccord se répète) et Corruption (blocs cassés, éclats), avec les deux moteurs.
+- Sur la timeline, hachures croisées pour une transition violente, et nom de son préréglage.
+- Correction : deux calculs d'une même transition, ou du Databending audio, ne donnaient pas toujours exactement les mêmes images ou le même son.
+
 ## Remanence 1.1.2
 
 Novembre 2026.
